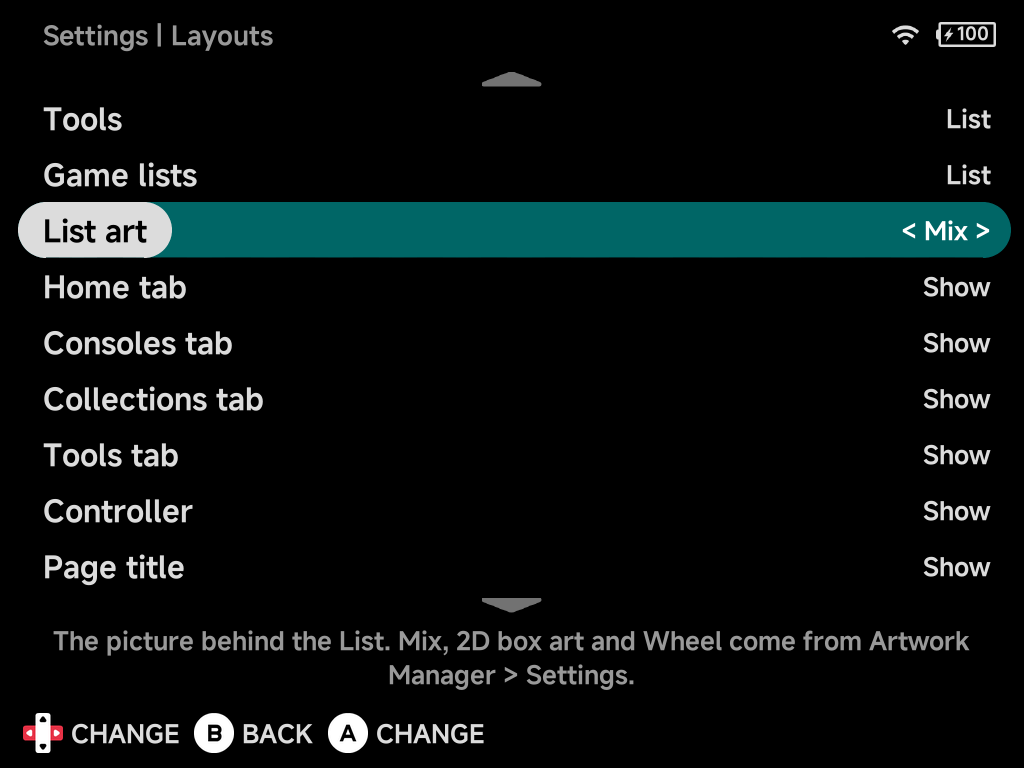
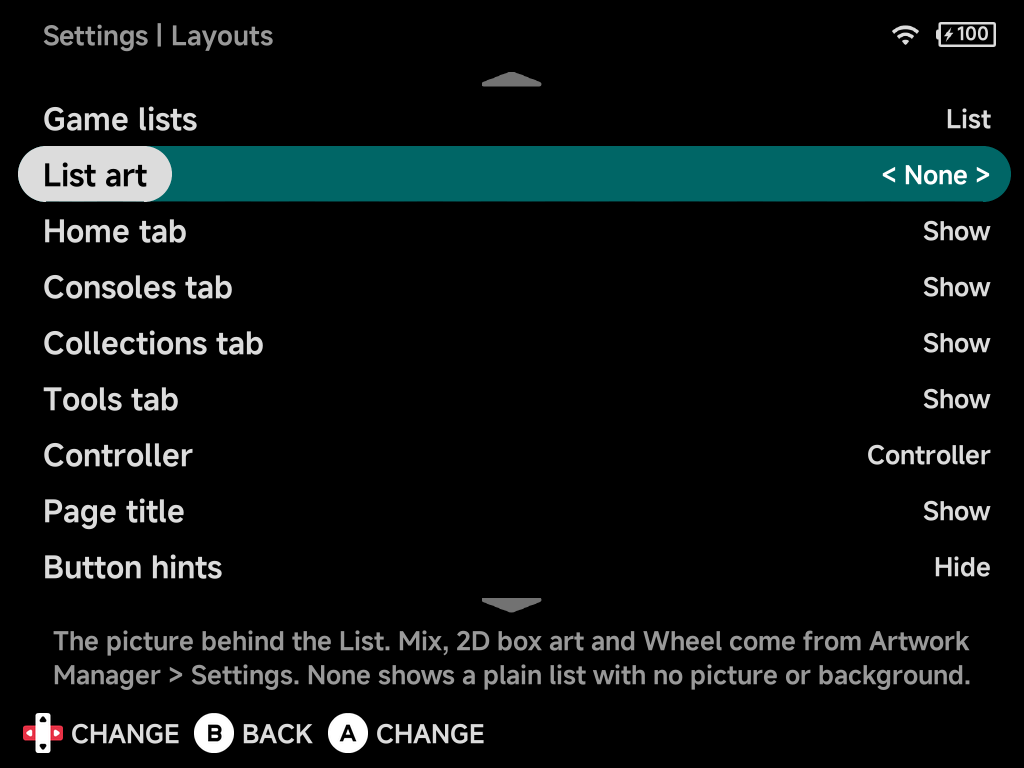
docs(handheld): None for List art and the Consoles controller row

diff --git a/docs/handheld/guide/layouts.md b/docs/handheld/guide/layouts.md
@@ -62,7 +62,7 @@ console instead of its controller, much like the list's look before 2.0.
    `Roms/<console> (<tag>)/.media/bg.png`, for example
    `Roms/Game Boy (GB)/.media/bg.png`.
 3. In [Settings → Layouts](../settings/layouts.md), set **Consoles controller** to
-   **Hide**.
+   **Background**.
 
 The selected console's `bg.png` then fills the screen behind the list. A
 console without one shows the plain list on black.
@@ -75,8 +75,8 @@ hidden*
 ??? info "More detail"
     - Size the image to the screen: 1024×768 on the Brick, 1280×720 on the
       Brick Pro and Smart Pro S.
-    - With **Consoles controller** on, the controller is shown and `bg.png` is
-      ignored.
+    - With **Consoles controller** set to `Controller`, the controller is
+      shown and `bg.png` is ignored. Set to `None`, neither shows.
     - The Collections tab in List takes a background too, with no setting to
       change: `Collections/.media/<collection name>.png` for one collection,
       or `Collections/.media/bg.png` for all of them.
@@ -164,8 +164,8 @@ the freed space to the screen's edge.
 
 ??? info "More detail"
     - **Controller art.** The Consoles tab shows each console's controller
-      behind it in the List and Carousel styles. Turn **Consoles controller** off in
-      Layouts for plain logos.
+      behind it in the List and Carousel styles. Set **Consoles controller** to
+      `Background` or `None` in Layouts for plain logos.
     - **Logos.** Systems without a logo of their own show their name under a
       cartridge emblem. Tools without an icon get a generic one.
     - **Games without artwork.** A game with no screenshot or box art gets a

diff --git a/docs/handheld/settings/layouts.md b/docs/handheld/settings/layouts.md
@@ -61,11 +61,15 @@ Whether the tab's carousel runs across (`Horizontal`, the default) or down
 
 ### Consoles controller
 
-Consoles only. `Show` (default) or `Hide` each console's controller behind it
-on the Consoles tab.
+Consoles only. What shows behind the Consoles tab (the row reads
+**Controller**):
 
-Hide it to show your own picture behind each console in the List style
-instead: see [Your own console backgrounds](../guide/layouts.md#your-own-console-backgrounds).
+- `Controller` (default): each console's controller.
+- `Background`: no controller. In the List style your own picture shows
+  behind each console instead: see
+  [Your own console backgrounds](../guide/layouts.md#your-own-console-backgrounds).
+- `None`: no controller and, in the List style, no background either, not
+  even your own `bg.png`: a plain list on black.
 
 ## Game lists
 
@@ -96,6 +100,9 @@ are `List`.
 - `Screenshot` (default): the game's screenshot fills the background.
 - `Mix`, `3D box art`, `2D box art` or `Wheel`: the whole picture in a box on
   the right, and the game names stop short of it.
+- `None`: no picture and no background, not even a `bg.png`: a plain list on
+  black. This applies to every list in the List style below the tabs (games,
+  collection contents, folders).
 
 A game without that picture falls back to the screenshot. `Mix` also takes an
 old Mix from an older release. Mix, 2D box art and Wheel are only on the card

diff --git a/docs/handheld/guide/main-menu.md b/docs/handheld/guide/main-menu.md
@@ -181,8 +181,8 @@ carousel, and Tools is a grid.
 ![Consoles tab](../../assets/screenshots/consoles-carousel.png)
 
 - Consoles show their logo and how many games they hold. Behind the
-  selected console you see its controller, unless you turn **Consoles controller** off
-  in Layouts. A system without a logo shows its name under a cartridge
+  selected console you see its controller, unless you set **Consoles controller** to
+  `Background` or `None` in Layouts. A system without a logo shows its name under a cartridge
   emblem.
 - Collections show their name and game count.
 - Tools show an icon for each app.
